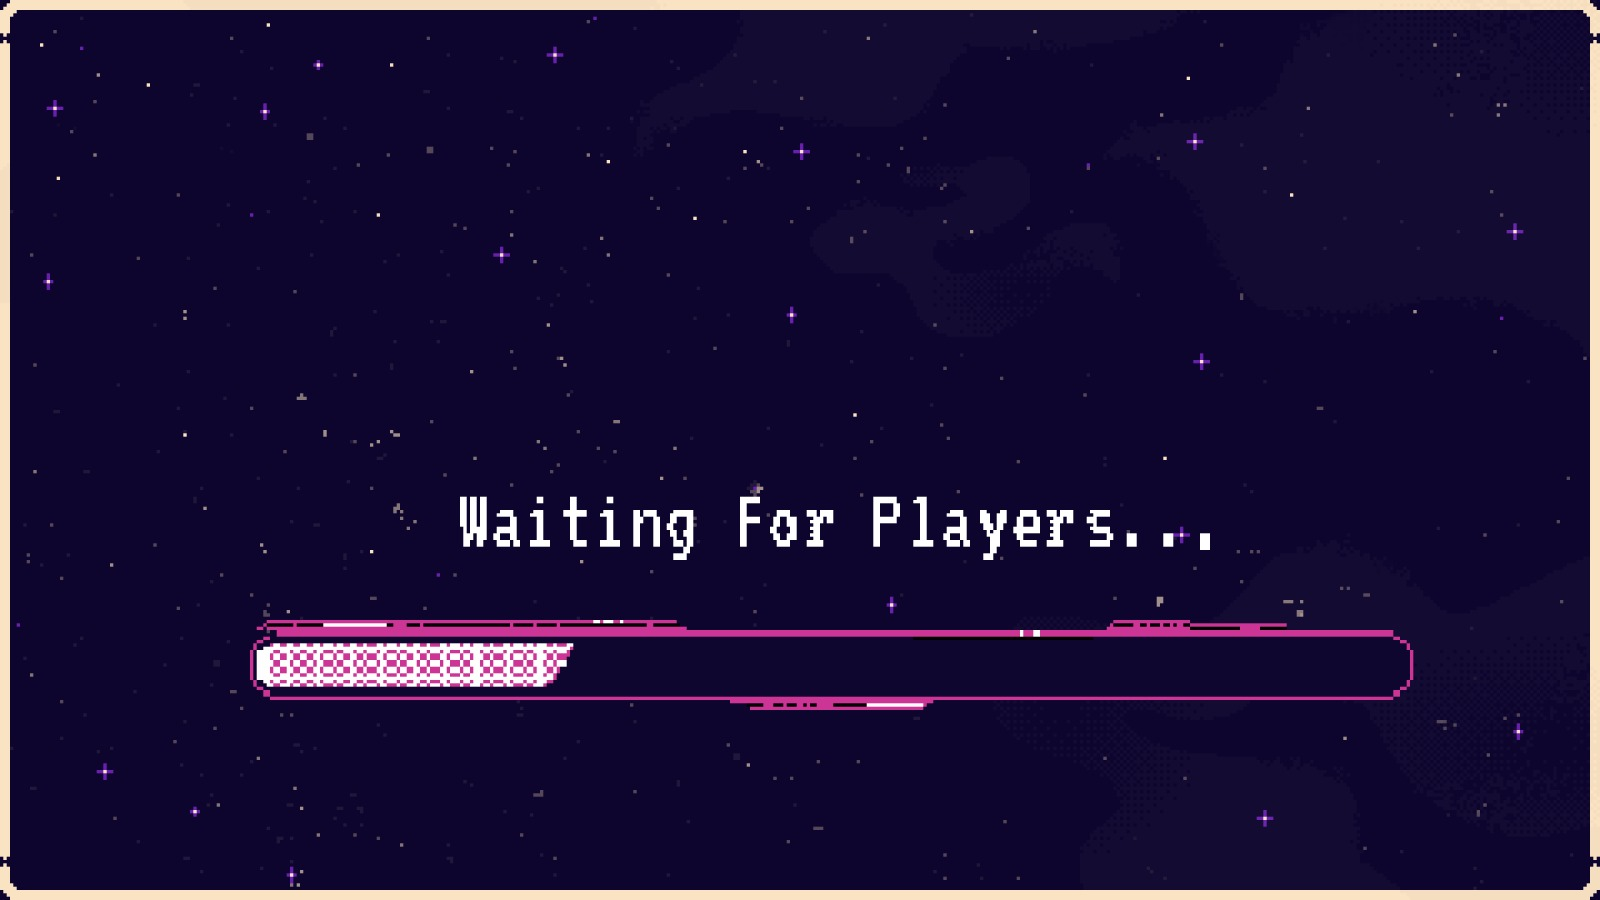
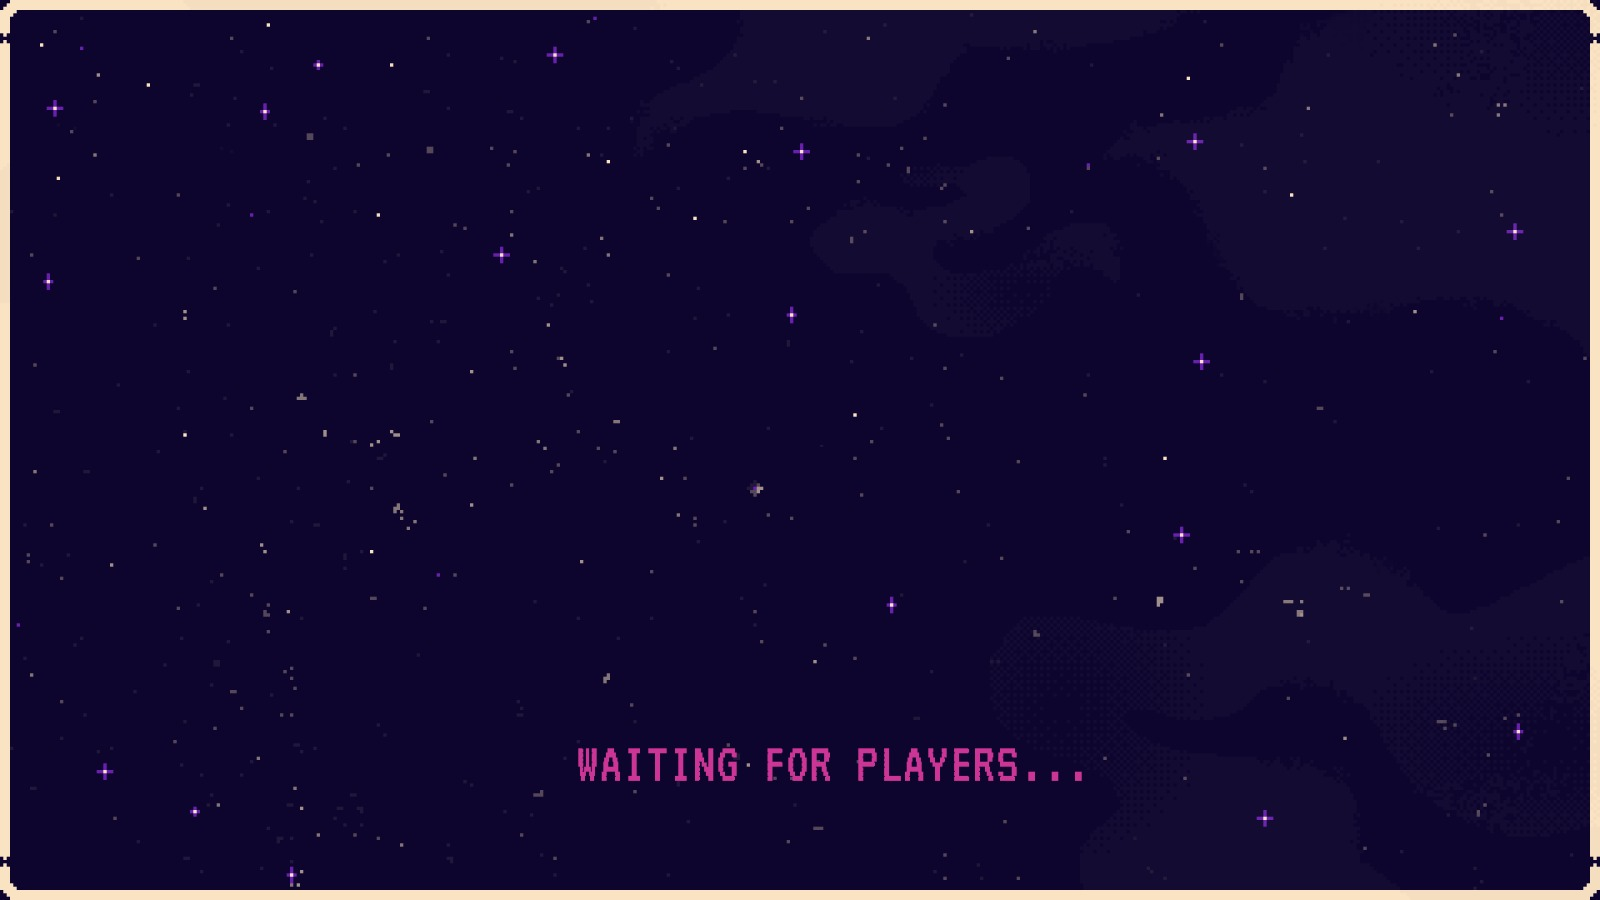
mark chat, replace waiting img, support touch

Changed region(s): [[0.1562, 0.6844, 0.875, 0.8711], [0.2812, 0.5289, 0.7812, 0.6222]]

diff --git a/Assets/TeamPunishment/Scripts/ChatUI.cs b/Assets/TeamPunishment/Scripts/ChatUI.cs
@@ -71,11 +71,16 @@ namespace TeamPunishment
             {
                 Application.Quit();
             }
-            if (Input.GetKeyUp(KeyCode.Return) || Input.touchCount > 1)
+            if (Input.GetKeyUp(KeyCode.Return))
             {
-                //CmdSend($"@@@{starToKick}");
-                Debug.Log($"[*******] - player {localPlayerName} choose to kick {starToKick}");
+                OnEnterClick();
             }
+        }
+
+        public void OnEnterClick()
+        {
+            //CmdSend($"@@@{starToKick}");
+            Debug.Log($"[*******] - player {localPlayerName} choose to kick {starToKick}");
         }
 
         [Command(requiresAuthority = false)]
@@ -126,6 +131,10 @@ namespace TeamPunishment
         IEnumerator AppendAndScroll(string message)
         {
             chatHistory.text += message + "\n";
+            if (chatWindowHidden)
+            {
+                ToggleChatButton.GetComponent<Image>().color = Color.yellow;
+            }
 
             // it takes 2 frames for the UI to update ?!?!
             yield return null;
@@ -137,6 +146,7 @@ namespace TeamPunishment
 
         private void ToggleChat()
         {
+            ToggleChatButton.GetComponent<Image>().color = Color.white;
             if (chatWindowHidden)
             {
                 GetComponent<Animator>().Play("ChatAnimationShow");

diff --git a/Assets/TeamPunishment/Scripts/VideoManager.cs b/Assets/TeamPunishment/Scripts/VideoManager.cs
@@ -2,6 +2,7 @@ using System;
 using System.Collections;
 using System.Collections.Generic;
 using UnityEngine;
+using UnityEngine.UI;
 using UnityEngine.Video;
 
 public class VideoManager : MonoBehaviour
@@ -22,12 +23,17 @@ public class VideoManager : MonoBehaviour
 
     private void Update()
     {
-        if (Input.GetKeyUp(KeyCode.Return) || Input.touchCount > 1)
+        if (Input.GetKeyUp(KeyCode.Return))
         {
-            if (currentVideo != null)
-            {
-                OnVideoEnd(currentVideo.GetComponent<VideoPlayer>());
-            }
+            OnEnterClick();
+        }
+    }
+
+    private void OnEnterClick()
+    {
+        if (currentVideo != null)
+        {
+            OnVideoEnd(currentVideo.GetComponent<VideoPlayer>());
         }
     }
 
@@ -37,6 +43,7 @@ public class VideoManager : MonoBehaviour
         chatCanvas.SetActive(false);
         Debug.Log($"[PlayIntro]");
         currentVideo = Instantiate(VideoPrefab, transform);
+        currentVideo.GetComponentInChildren<Button>().onClick.AddListener(OnEnterClick);
         var vid = currentVideo.GetComponent<VideoPlayer>();
         vid.clip = intro;
         vid.aspectRatio = VideoAspectRatio.FitInside;
